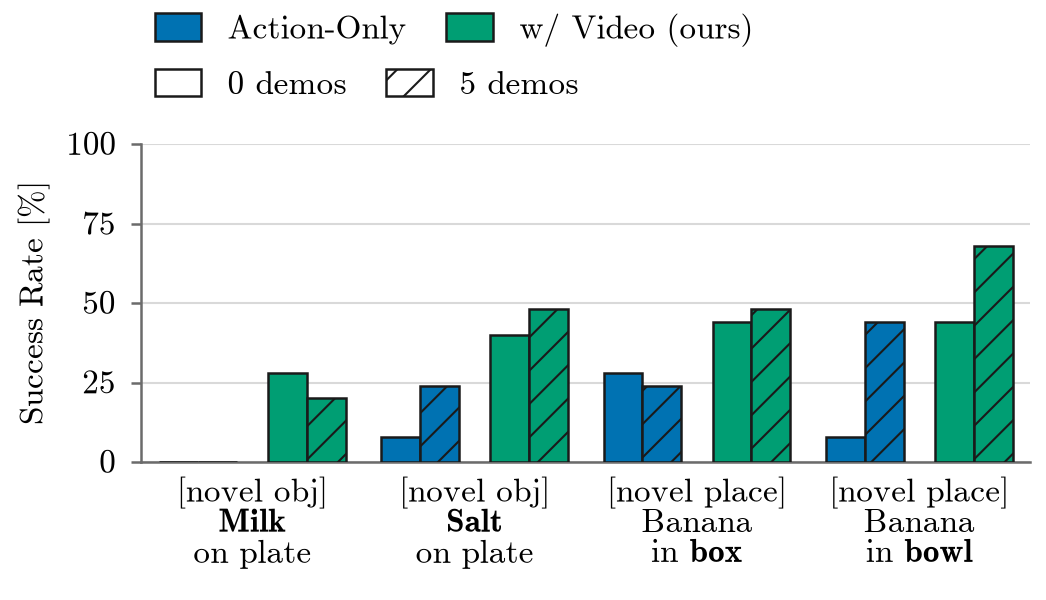
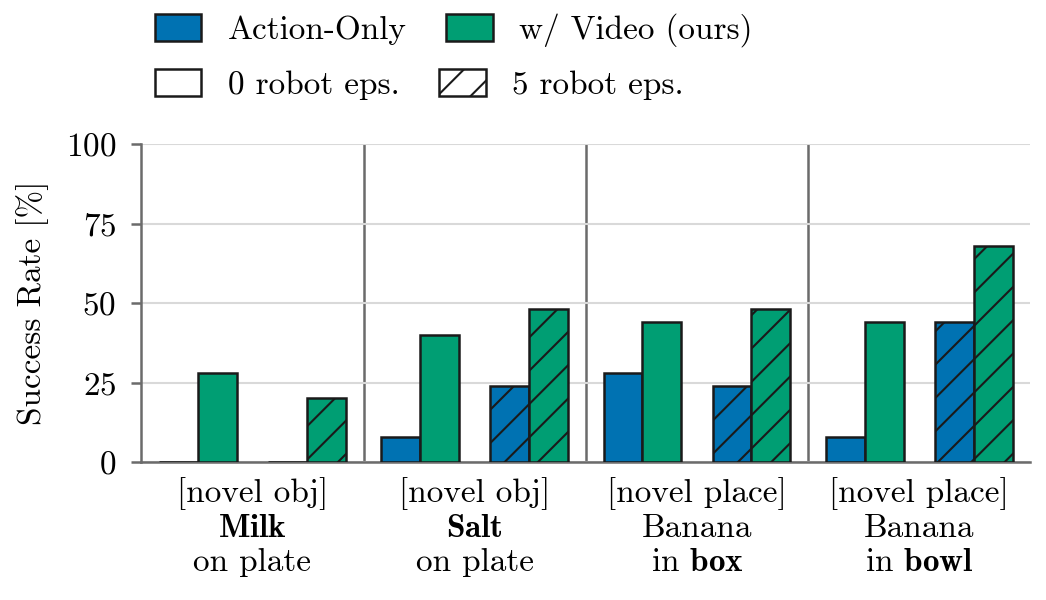
realworld bars: group by budget, separate tasks
Budget-major bar order, so the Action-Only vs ours gap is adjacent
at each budget -- that comparison is the figure's claim. Vertical
rules at the group midpoints, in INK_MUTED at spine weight, so the
two blocks per task do not read as four tasks. Budget legend now
reads "robot eps." rather than "demos".

diff --git a/plot_realworld_bars.py b/plot_realworld_bars.py
@@ -11,13 +11,13 @@ Encoding: x groups by task, **color** identifies the method, **hatch**
 identifies the demo budget. Two channels for two factors, so a reader can hold
 one fixed and scan the other.
 
-Bars are ordered method-major, so within a task each method's budgets stay
-contiguous: the reader sees one Action-Only block and one "ours" block, and the
-0 -> 5 step inside each. The cost is that the like-for-like comparison -- the
-two methods at the *same* budget -- is no longer adjacent, so reading the gap at
-5 demos means skipping over the other method's bars. Swap the two loops that
-fill `offsets` to get budget-major ordering back, which pairs the methods at
-each budget instead.
+Bars are ordered budget-major, so within a task each budget's methods stay
+contiguous: the reader sees one 0-demo block and one 5-demo block, and the
+Action-Only -> ours gap inside each. That gap is the figure's claim, so it is
+the one made adjacent. The cost is that a single method's 0 -> 5 step is no
+longer contiguous, so reading how much a method gains from demos means skipping
+over the other method's bar. Swap the two loops that fill `offsets` to get
+method-major ordering, which keeps each method's budgets together instead.
 
 EMBEDDING IN LATEX
 ------------------
@@ -192,7 +192,7 @@ def build_legends(fig, methods, budgets, left):
     budget_handles = [
         Patch(facecolor="white", edgecolor=style.MARKER_EDGE, linewidth=0.6,
               hatch=style.HATCHES[i % len(style.HATCHES)],
-              label=f"{int(b)} demos")
+              label=f"{int(b)} robot eps.")
         for i, b in enumerate(budgets)
     ]
 
@@ -244,17 +244,18 @@ def main():
     n_tasks, n_methods, n_budgets = len(task_ids), len(methods), len(budgets)
     x = np.arange(n_tasks, dtype=float)
 
-    # Bar geometry. Method-major: one cluster of n_budgets bars per method, with
+    # Bar geometry. Budget-major: one cluster of n_methods bars per budget, with
     # a gap between clusters so the eye reads "two blocks" rather than "four
-    # bars". Each method's budgets stay contiguous, so its 0 -> 5 step is read
-    # within a cluster and the two methods compare as whole blocks.
+    # bars". Each budget's methods stay contiguous, so the like-for-like
+    # comparison at one budget is adjacent and the two budgets compare as whole
+    # blocks.
     span, cluster_gap = 0.84, 0.14
-    w = (span - cluster_gap * (n_methods - 1)) / (n_methods * n_budgets)
+    w = (span - cluster_gap * (n_budgets - 1)) / (n_methods * n_budgets)
     offsets = {}
     edge = -span / 2
-    for mi, m in enumerate(methods):
-        for bi, b in enumerate(budgets):
-            offsets[(m, b)] = edge + w / 2 + (mi * n_budgets + bi) * w + mi * cluster_gap
+    for bi, b in enumerate(budgets):
+        for mi, m in enumerate(methods):
+            offsets[(m, b)] = edge + w / 2 + (bi * n_methods + mi) * w + bi * cluster_gap
 
     # Explicit margins, not constrained_layout: the two stacked legends are
     # placed by hand (see build_legends), so the space they need is reserved by
@@ -299,6 +300,17 @@ def main():
     ax.set_xticklabels([tasks.wrapped(t) for t in task_ids])
     ax.set_axisbelow(True)
     ax.grid(axis="y")
+
+    # Task separators, at the midpoints between groups. Budget-major ordering
+    # puts two blocks in each task, so without a rule the eye can read the gap
+    # *between* two tasks as another block boundary. Set in INK_MUTED at the
+    # spine weight rather than the lighter GRID: the y grid is a reading aid
+    # behind the data, this is structure, and at GRID it did not out-rank the
+    # gaps it is meant to separate. Still recessive grey, never black -- it is a
+    # rule, not data -- and it stops at the axes rather than running through the
+    # tick labels below.
+    for xi in x[:-1]:
+        ax.axvline(xi + 0.5, color=style.INK_MUTED, linewidth=0.6, zorder=0)
     ax.tick_params(axis="x", length=0)
     ax.set_ylabel("Success Rate [%]")
 
